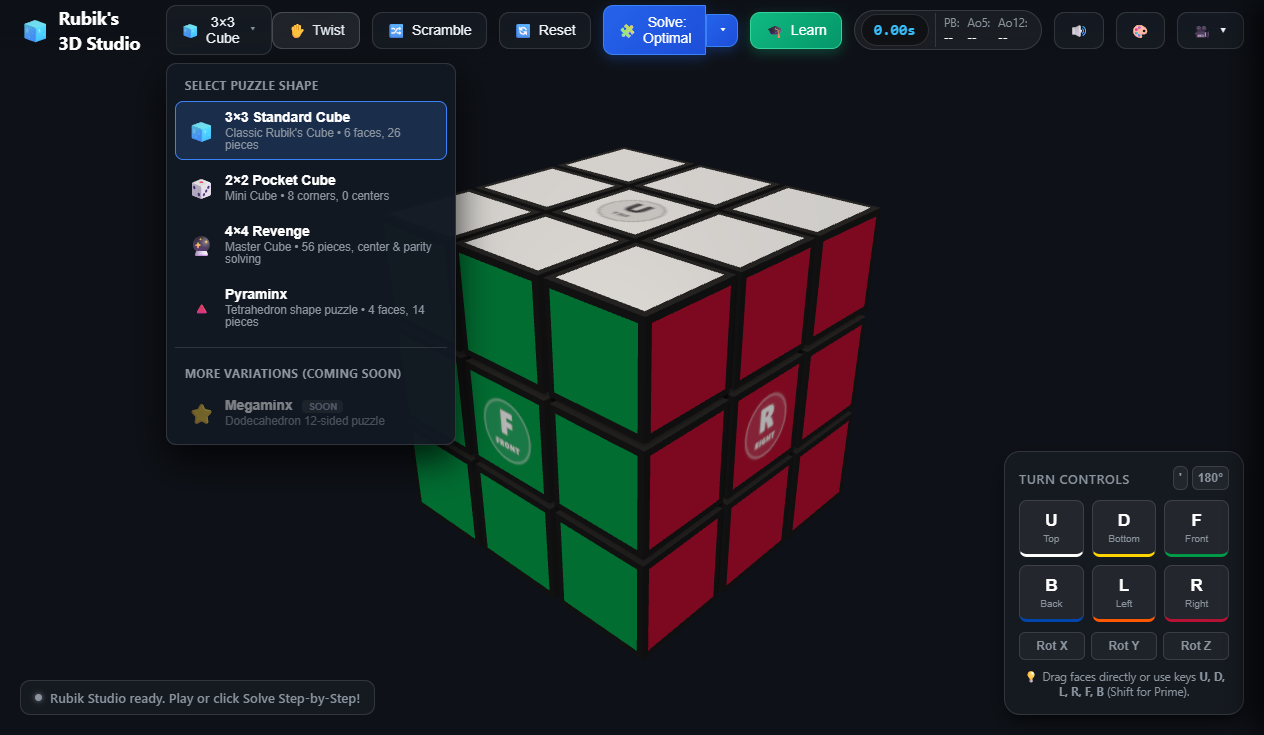
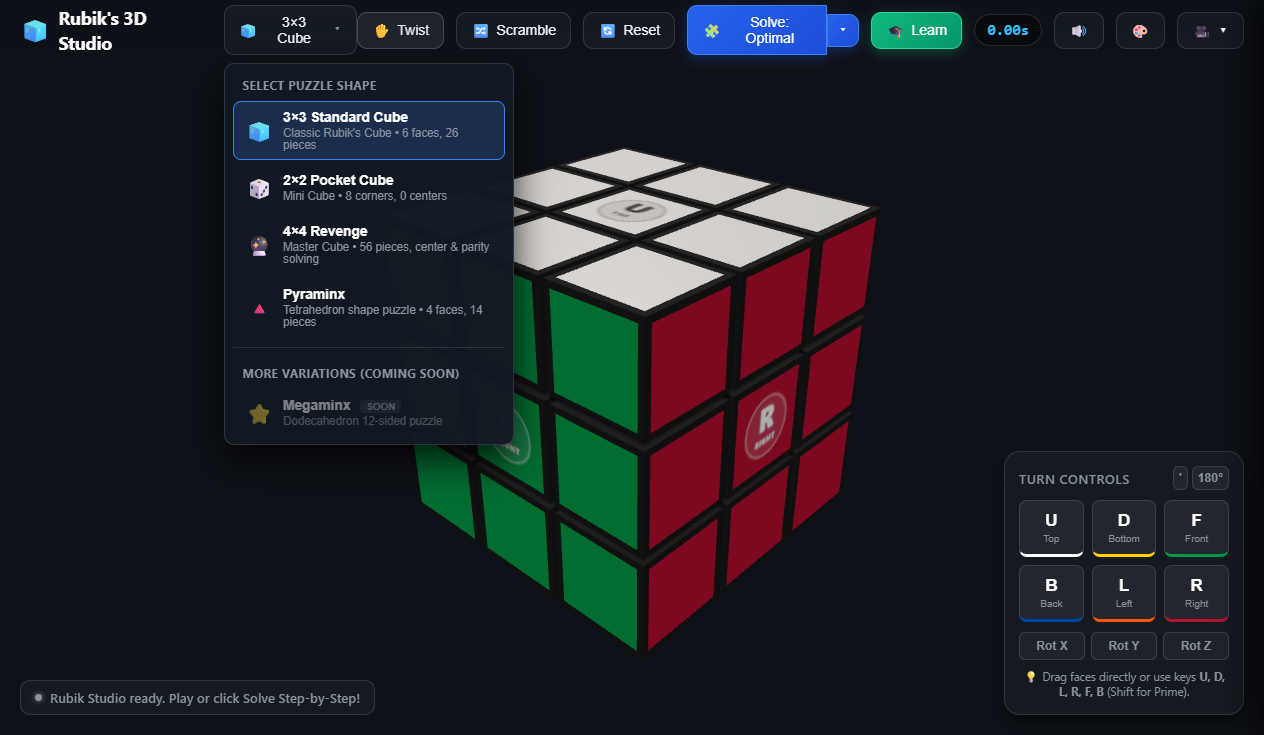
fix(ui): remove timer session statistics and ensure timer resets to 0.00s on cube switch
- Remove session statistics display (PB, Ao5, Ao12) from header bar.
- Fix bug where timer display showed previous solve time after switching cubes or resetting; now cleanly resets to 0.00s.
- Clean up unused session statistics CSS and DOM queries.
- Update tests and regenerate all UI documentation screenshots.

Changed region(s): [[0.1234, 0.0898, 0.432, 0.6286], [0.0617, 0.0, 0.8331, 0.0898]]

diff --git a/src/ui/SpeedTimer.js b/src/ui/SpeedTimer.js
@@ -4,10 +4,10 @@ import { cubeAudio } from '../cube/CubeAudio.js';
 export class SpeedTimer {
   constructor(options = {}) {
     this.timerEl = options.timerEl || document.getElementById('cube-timer');
-    this.pbEl = options.pbEl || document.getElementById('stat-pb');
-    this.ao5El = options.ao5El || document.getElementById('stat-ao5');
-    this.ao12El = options.ao12El || document.getElementById('stat-ao12');
-    this.inspectionBtn = options.inspectionBtn || document.getElementById('btn-toggle-inspection') || null;
+    this.pbEl = options.pbEl || null;
+    this.ao5El = options.ao5El || null;
+    this.ao12El = options.ao12El || null;
+    this.inspectionBtn = options.inspectionBtn || null;
 
     this.state = 'idle'; // 'idle' | 'holding' | 'ready' | 'inspecting' | 'running'
     this.isInspectionEnabled = false;
@@ -31,7 +31,7 @@ export class SpeedTimer {
     }
 
     this.init();
-    this.updateStatsDisplay();
+    if (this.timerEl) this.timerEl.textContent = '0.00s';
   }
 
   init() {
@@ -157,11 +157,7 @@ export class SpeedTimer {
     this.state = 'idle';
     if (this.timerEl) {
       this.timerEl.classList.remove('running', 'inspecting', 'holding', 'ready');
-      if (this.solves.length > 0) {
-        this.timerEl.textContent = `${this.solves[this.solves.length - 1].time.toFixed(2)}s`;
-      } else {
-        this.timerEl.textContent = '0.00s';
-      }
+      this.timerEl.textContent = '0.00s';
     }
   }
 
@@ -170,11 +166,7 @@ export class SpeedTimer {
     this.state = 'idle';
     if (this.timerEl) {
       this.timerEl.classList.remove('holding', 'ready');
-      if (this.solves.length > 0) {
-        this.timerEl.textContent = `${this.solves[this.solves.length - 1].time.toFixed(2)}s`;
-      } else {
-        this.timerEl.textContent = '0.00s';
-      }
+      this.timerEl.textContent = '0.00s';
     }
   }
 

diff --git a/index.html b/index.html
@@ -124,15 +124,8 @@
         <span class="icon">🎓</span> <span class="btn-label">Learn</span>
       </button>
 
-      <!-- Speedcubing Timer & Stats -->
-      <div class="timer-widget-wrap">
-        <div id="cube-timer" class="timer-pill" title="Click or Hold Spacebar to start/stop timer">0.00s</div>
-        <div id="timer-stats-pill" class="timer-stats-pill" title="Speedcubing Session Statistics">
-          <span>PB: <strong id="stat-pb">--</strong></span>
-          <span>Ao5: <strong id="stat-ao5">--</strong></span>
-          <span>Ao12: <strong id="stat-ao12">--</strong></span>
-        </div>
-      </div>
+      <!-- Speed Timer -->
+      <div id="cube-timer" class="timer-pill" title="Click or Hold Spacebar to start/stop timer">0.00s</div>
 
       <!-- Audio Mute/Unmute Toggle -->
       <button id="btn-audio-toggle" class="btn btn-icon" title="Toggle mechanical turning sound effects">

diff --git a/src/style.css b/src/style.css
@@ -1314,19 +1314,6 @@ body.has-player-dock .status-badge {
   to { opacity: 1.0; text-shadow: 0 0 8px #ffc107; }
 }
 
-.timer-stats-pill {
-  display: flex;
-  gap: 8px;
-  font-size: 0.72rem;
-  color: var(--text-muted);
-  padding: 2px 8px;
-  border-left: 1px solid var(--surface-border);
-}
-
-.timer-stats-pill strong {
-  color: #ffffff;
-}
-
 /* ==========================================================================
    Themes & Camera Quick-Snap Dropdowns
    ========================================================================== */

diff --git a/tests/speedTimer.test.js b/tests/speedTimer.test.js
@@ -63,8 +63,10 @@ describe('Speedcubing Timer & Statistics', () => {
     timer.state = 'running';
     timer.timerInterval = 12345;
     timer.inspectionInterval = 54321;
+    timer.solves = [{ time: 14.5 }];
     timer.reset();
     expect(timer.state).toBe('idle');
+    expect(timer.timerEl.textContent).toBe('0.00s');
   });
 
   it('clears solve history and resets stats display', () => {
